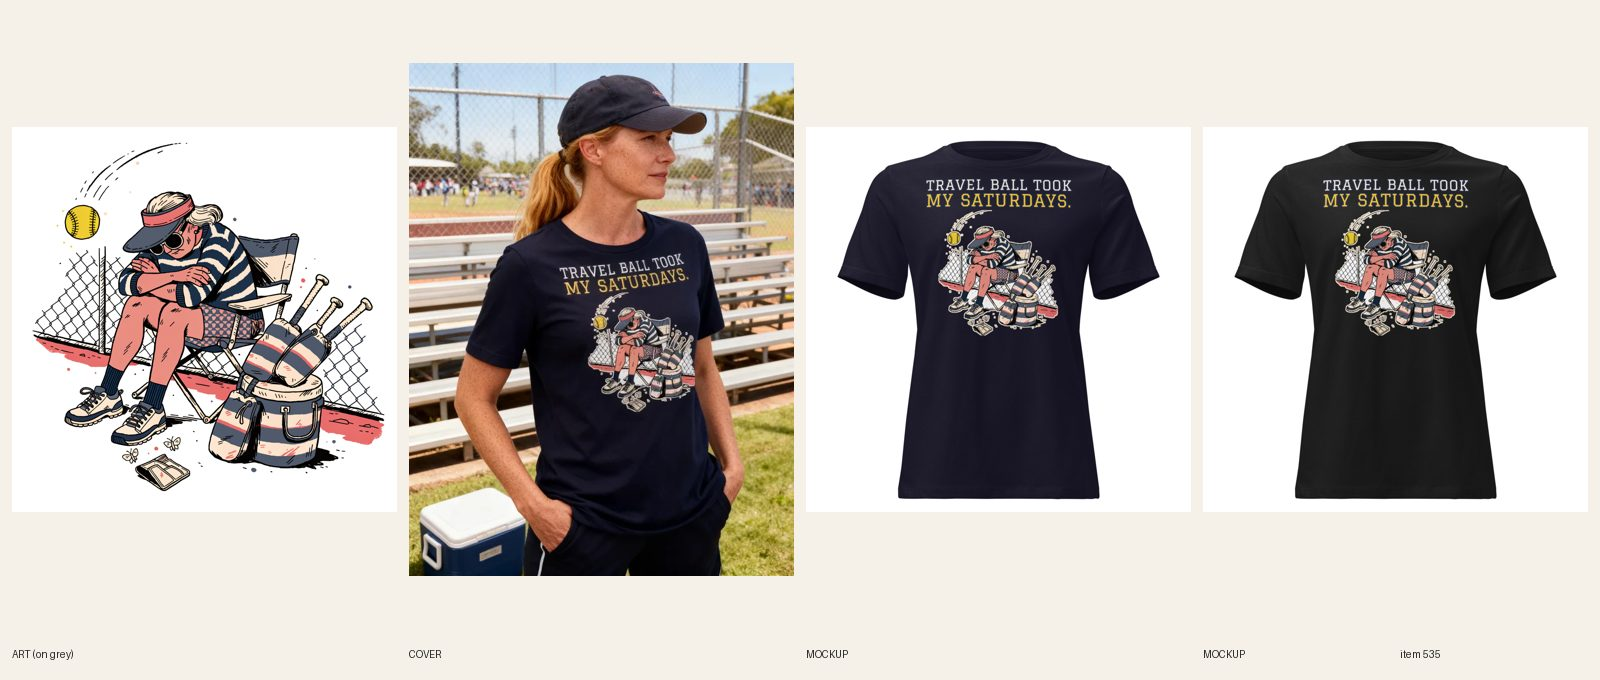
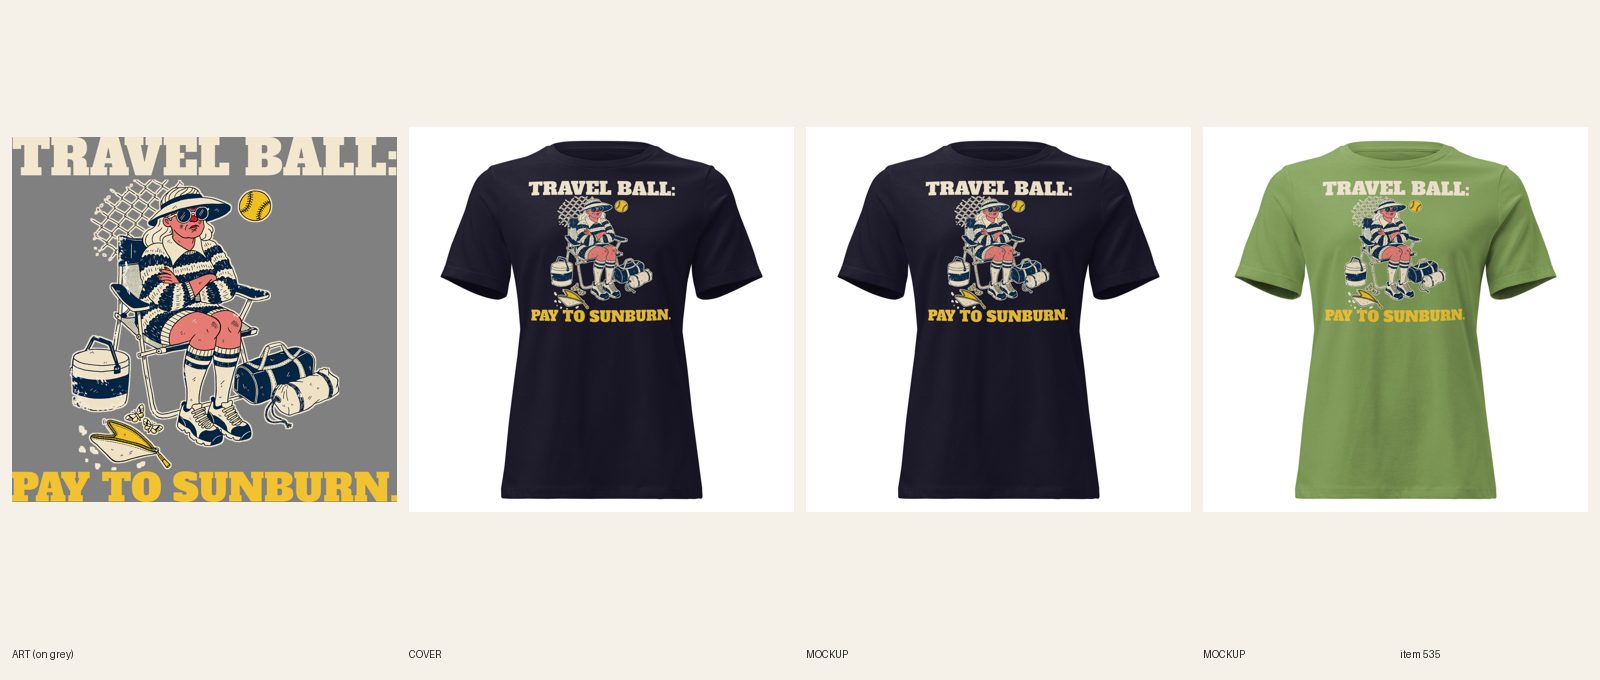
[E] review 535 redid #535 Women's Softball Mom tee (line + type: TRAVEL BALL: PAY TO SUNBURN., new sunburned-mom art, one cream-and-yellow file on 5 dark colors, 30/30 synced, copy updated, plain product shot). REVIEW. fal $0.04.

diff --git a/docs/pipeline/535-softball-mom-tee-travel-ball.md b/docs/pipeline/535-softball-mom-tee-travel-ball.md
@@ -1,4 +1,4 @@
-status: REDO
+status: REVIEW
 lane: E
 type: new
 id: 535
@@ -32,3 +32,4 @@ kd: 50
 - 2026-10-18 04:45 UTC [E] builder: synced 30/30 (FW 1650 TOP 75), mockups, cover and review sheet done; REVIEW.
 - 2026-10-18 05:21 UTC director: LIVE. Sheet reviewed (R3/R4/R5/R6/R8/R13.3 pass); Printful file checked on every variant; ACTIVE + Online Store/Headless/Google & YouTube; cohesion-audit --handle PASS (0 warn). Copy: softball mom shirt cut from 4 to 3 uses (audit stuffing warn).
 - 2026-10-18 17:22 UTC director: QUALITY RESET grade C (new line + type), REDO. The product stays ACTIVE (same handle, URL, title keyword). 1. Line (R3.12, quality-reset 'Lines'): "TRAVEL BALL TOOK / MY SATURDAYS.": Plain complaint, no joke; small type above art only. Write 5 candidates, keep the one a stranger laughs at in 3 seconds without backstory; kill lines that only describe the picture; if none of the 5 is funny, PARK it. 2. Quality reset type bar (docs/backlog/quality-reset.md, 'The new bar'): headline at least 90% of the art width, heavy, colors pulled from the art; second line at least 45% of the headline's height, never a thin script on a dark or mid garment; use the lettering as a shape (arch, stacked lockup, words breaking into the art), not a plain bar above and a script line below; no font used on more than 1 in 6 of the last 30 designs. 3. Keep the art if it carries the new line, else one new illustration (R4/R5). New print means a new cover per R6.10, copy line one rewritten for the new joke (R8.3), and a fresh review sheet (R7.7). While quality-reset.md says PAUSED, only lane A builds, and only the samples step 2 names.
+- 2026-10-20 05:21 UTC builder [E]: REDO 535 (C grade, line + type) done on the existing product (stays ACTIVE, handle unchanged). 5 candidates: "TRAVEL BALL: PAY TO SUNBURN."; "Paid In Sunburn And Seeds"; "Travel Ball Took My Saturdays" (old); "My Wallet Has A Travel Team Too"; "Cooler Full, Wallet Empty". Kept TRAVEL BALL: / PAY TO SUNBURN. (pay-to-play twist, 3 seconds). One new Recraft call ($0.04): sunburned mom in a visor and camp chair at the backstop, cooler, bat bags, empty wallet with moths, softball, no words. Alfa Slab One full print width, cream + softball yellow, thin cream halo so the navy linework reads on Navy and Black. All five colors dark/mid (Navy, Black, Heather Navy, Dark Grey Heather, Leaf): cream-fill file, no light color offered. FW 1500 TOP 75, 30/30 synced on the new file per color (a worker restart interrupted the sync; Dark Grey Heather and Leaf relinked and re-verified), back logo kept. 5 fronts replaced in place, alts updated, title/SEO/copy/FAQs rewritten. Cover: handle added to retired-covers.json (plain product shot). Phone-size read OK on all five. audit --handle PASS 0 warn; astro build OK. fal $0.04. Sheet docs/review/535.jpg.

diff --git a/docs/intake-log.md b/docs/intake-log.md
@@ -3,6 +3,7 @@ RUNNING lane E since 2026-10-20 05:16 UTC
 2026-10-20 04:46 UTC — [H] Helper run: Telegram inbox empty (getUpdates returned 0 updates; nothing to consume). Audit 607 live products: 0 errors, 31 warnings left alone (polish); committed docs/cohesion-audit.md. Category check: 0 products without a Shopify category. Site check: #548, #578, #618 all 200. Stuck-work check: nothing BUILDING over 3h (#257 and #258 claimed 04:07); lane A lock line from 02:28 is over 2h old but lane A committed at 04:06, so Telegram alert sent once (reply pending from Sam). Daily summary not due (before 12:00 UTC). Lock released.
 2026-10-20 05:14 UTC — [B] Builder run: redid #378 Women's Nurse crewneck (line + type: I'M FINE. / THE IV IS COFFEE., new coffee-IV art, Bowlby One, Sand + Ash dark-ink file, 12/12 synced). REVIEW. fal $0.04.
 2026-10-20 05:06 UTC — [B] Builder run: redid #380 Women's Football Mom crewneck (line + type: RULES: UNKNOWN. / SNACKS: PACKED., new snack-pile art, Bevan, Sand + Sport Grey dark-ink file, 12/12 synced). REVIEW. fal $0.04.
+2026-10-20 05:21 UTC — [E] Builder run: redid #535 Women's Softball Mom tee (line + type: TRAVEL BALL: PAY TO SUNBURN., new sunburned-mom art, one cream-and-yellow file on 5 dark colors, 30/30 synced, copy updated, plain product shot). REVIEW. fal $0.04.
 2026-10-20 04:57 UTC — [B] Builder run: redid #382 Women's Baseball Mom crewneck (line + type: HIS BATTING AVERAGE / IS MY PERSONALITY., new camp-chair art, Oswald, Sand + Ash dark-ink file, 12/12 synced). REVIEW. fal $0.04.
 RUNNING helper since 2026-10-20 04:44 UTC
 2026-10-20 05:03 UTC — [E] Builder run: redid #533 Women's Western tee (line + type: PLEASE STOP TALKING. I LOVE YOU., new cowgirl armadillo art, one dark-ink file on 5 light colors, 30/30 synced, copy updated, plain product shot). REVIEW. fal $0.04.
